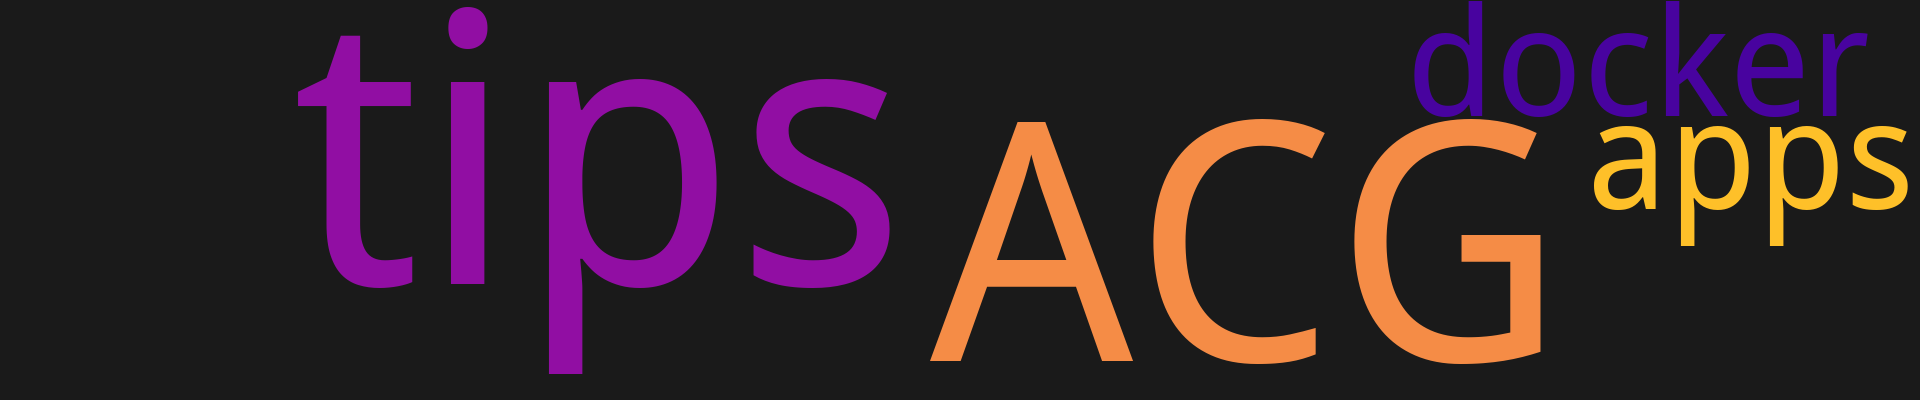
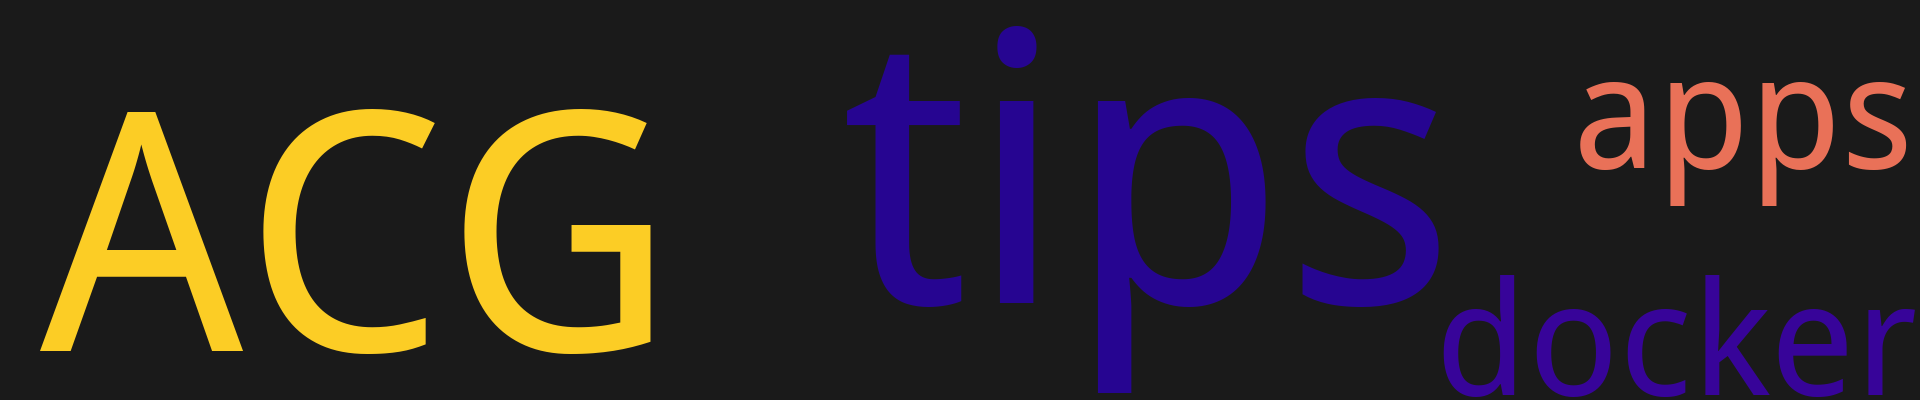
Update article metadata layout and styling: Refactor article.html to improve the display of creation and update times, and enhance CSS for better alignment and spacing in article metadata. Update README.md with the latest commit timestamp and replace word cloud images for visual consistency.

diff --git a/src/templates/article.html b/src/templates/article.html
@@ -9,16 +9,14 @@
             <a href="../../index.html" class="back-link">← 返回首页</a>
             <h1 class="article-title">{{ article.title }}</h1>
             <div class="article-meta">
-                <div>创建时间：{{ article.created_at }}</div>
-                <div>更新时间：{{ article.updated_at }}</div>
+                <span>创建时间：{{ article.created_at }}</span>
+                <span class="separator">|</span>
+                <span>更新时间：{{ article.updated_at }}</span>
+                {% if article.labels %}
+                <span class="separator">|</span>
+                <span>分类：{% for label in article.labels %}{{ label }}{% if not loop.last %}, {% endif %}{% endfor %}</span>
+                {% endif %}
             </div>
-            {% if article.labels %}
-            <div class="labels">
-                {% for label in article.labels %}
-                <span class="label">{{ label }}</span>
-                {% endfor %}
-            </div>
-            {% endif %}
         </header>
         
         <div class="article-content">

diff --git a/src/templates/static/css/base.css b/src/templates/static/css/base.css
@@ -77,6 +77,20 @@ body {
     color: var(--muted-color);
     font-size: 0.9em;
     margin-bottom: 10px;
+    display: flex;
+    align-items: center;
+    flex-wrap: wrap;
+    gap: 8px;
+}
+
+.article-meta .separator {
+    color: var(--muted-color);
+    opacity: 0.6;
+    margin: 0 4px;
+}
+
+.article-meta span {
+    white-space: nowrap;
 }
 
 .labels {
@@ -223,6 +237,15 @@ body {
     
     .article-content {
         font-size: 0.9em;
+    }
+    
+    .article-meta {
+        font-size: 0.85em;
+        gap: 6px;
+    }
+    
+    .article-meta .separator {
+        margin: 0 2px;
     }
 }
 

diff --git a/README.md b/README.md
@@ -1,7 +1,7 @@
 
 <p align='center'>
     <img src="https://badgen.net/github/issues/syaofoxsyaofox.github.io"/>
-    <img src="https://badgen.net/badge/last-commit/2025-10-14 21:39:59"/>
+    <img src="https://badgen.net/badge/last-commit/2025-10-14 21:45:46"/>
     <img src="https://badgen.net/github/forks/syaofoxsyaofox.github.io"/>
     <img src="https://badgen.net/github/stars/syaofoxsyaofox.github.io"/>
     <img src="https://badgen.net/github/watchers/syaofoxsyaofox.github.io"/>
